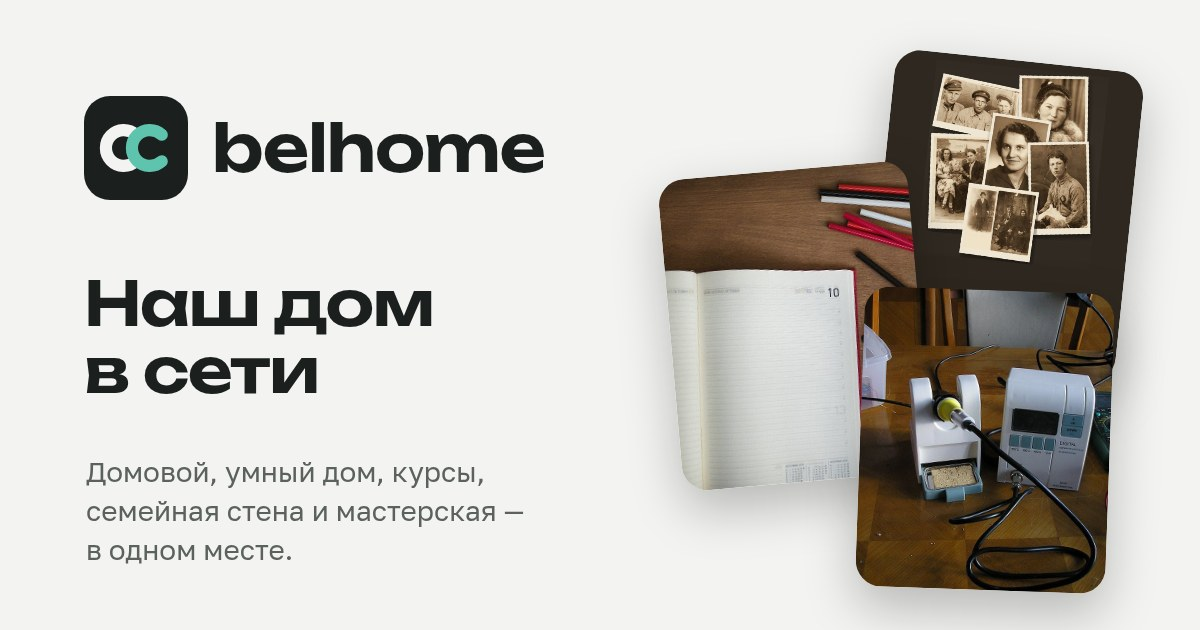
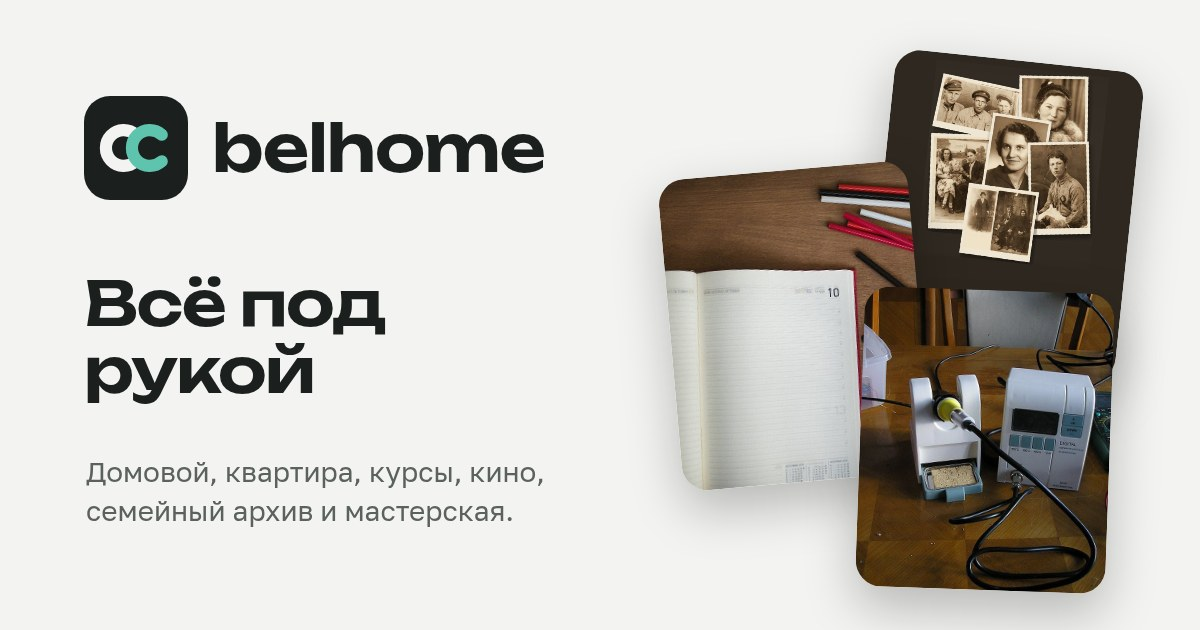
Обновление belhome.cc из ~/infra

Changed region(s): [[0.0617, 0.7238, 0.4625, 0.9048], [0.0617, 0.4222, 0.37, 0.6333]]

diff --git a/index.html b/index.html
@@ -1,4 +1,4 @@
-<!doctype html><html lang="ru"><head><meta charset="utf-8"><meta name="viewport" content="width=device-width,initial-scale=1"><title>belhome.cc — Наш дом в сети</title><meta name="theme-color" content="#F3F4F1"><link rel="icon" href="assets/brand/mark.svg" type="image/svg+xml"><link rel="icon" href="assets/brand/favicon.ico" sizes="48x48"><link rel="apple-touch-icon" href="assets/brand/apple-touch-icon.png"><link rel="manifest" href="site.webmanifest"><meta name="description" content="Домашний сайт: Домовой, умный дом, курсы, семейная стена и мастерская — в одном месте."><meta property="og:type" content="website"><meta property="og:site_name" content="belhome"><meta property="og:title" content="belhome.cc — Наш дом в сети"><meta property="og:description" content="Домашний сайт: Домовой, умный дом, курсы, семейная стена и мастерская — в одном месте."><meta property="og:url" content="https://belhome.cc/"><meta property="og:locale" content="ru_RU"><meta property="og:image" content="https://belhome.cc/assets/brand/og-image.jpg"><meta property="og:image:width" content="1200"><meta property="og:image:height" content="630"><meta name="twitter:card" content="summary_large_image"><meta name="apple-mobile-web-app-title" content="belhome"><link rel="canonical" href="https://belhome.cc/"><link rel="preconnect" href="https://fonts.googleapis.com"><link rel="preconnect" href="https://fonts.gstatic.com" crossorigin><link href="https://fonts.googleapis.com/css2?family=Golos+Text:wght@400;500;600&amp;family=Unbounded:wght@500;600&amp;display=swap" rel="stylesheet"><link rel="stylesheet" href="assets/site.css"></head><body><div class="wrap"><header class="top"><a class="brand" href="./"><svg width="44" height="44" viewBox="0 0 64 64" aria-hidden="true"><rect width="64" height="64" rx="16" fill="#1B1F1D"/><path d="M31.86 23.83 A11 11 0 1 0 31.86 40.17" fill="none" stroke="#F3F4F1" stroke-width="7.5" stroke-linecap="round"/><path d="M47.86 23.83 A11 11 0 1 0 47.86 40.17" fill="none" stroke="#5FC4AE" stroke-width="7.5" stroke-linecap="round"/></svg><span>belhome</span></a><div class="actions"><a class="ghost" href="https://home.belhome.cc">Пульт</a></div></header><section class="hero"><h1>Наш дом в сети</h1><p class="lead">Всё, чем мы пользуемся каждый день, в одном месте.</p><p class="sub">Курсы открыты всем. Остальное — после входа через Google.</p></section><nav class="chips" aria-label="Разделы"><button type="button" class="chip" data-g="all" aria-pressed="true">Все</button><button type="button" class="chip" data-g="home" aria-pressed="false">Дом</button><button type="button" class="chip" data-g="study" aria-pressed="false">Учёба</button><button type="button" class="chip" data-g="family" aria-pressed="false">Семья</button><button type="button" class="chip" data-g="make" aria-pressed="false">Мастерская</button></nav><section class="grid"><a class="tile" href="https://our.belhome.cc" data-group="home"><img src="assets/photos/domovoy.jpg" alt="" loading="lazy"><span class="scrim" aria-hidden="true"></span><span class="pill own">Вход по паролю</span><span class="cap"><span class="n">Домовой</span><span class="d">Домашние вещи, документы и гарантии.</span><span class="u">our.belhome.cc</span></span></a><a class="tile" href="https://ha.belhome.cc" data-group="home"><img src="assets/photos/smarthome.jpg" alt="" loading="lazy"><span class="scrim" aria-hidden="true"></span><span class="pill own">Вход по паролю</span><span class="cap"><span class="n">Умный дом</span><span class="d">Свет, климат, камера и датчики квартиры.</span><span class="u">ha.belhome.cc</span></span></a><a class="tile" href="kursy/" data-group="study"><img src="assets/photos/kursy.jpg" alt="" loading="lazy"><span class="scrim" aria-hidden="true"></span><span class="pill open">Открыто для всех</span><span class="cap"><span class="n">Курсы</span><span class="d">Электрика, английский, кондиционеры, быстрая печать, чтение.</span><span class="c">5 курсов <svg width="14" height="14" viewBox="0 0 24 24" fill="none" stroke="currentColor" stroke-width="2.4" stroke-linecap="round" stroke-linejoin="round" aria-hidden="true"><path d="M9 6l6 6-6 6"></path></svg></span></span></a><a class="tile" href="http://192.168.68.54:32400/web" data-group="home"><img src="assets/photos/kino.jpg" alt="" loading="lazy"><span class="scrim" aria-hidden="true"></span><span class="pill home">Только дома</span><span class="cap"><span class="n">Кино</span><span class="d">Новые фильмы и сериалы на телевизоре.</span><span class="u">Plex на ТВ</span></span></a><a class="tile" href="https://rod.belhome.cc" data-group="family"><img src="assets/photos/tree.jpg" alt="" loading="lazy"><span class="scrim" aria-hidden="true"></span><span class="pill google">Вход через Google</span><span class="cap"><span class="n">Семейная стена</span><span class="d">Родословная, лица и истории семьи.</span><span class="u">rod.belhome.cc</span></span></a><a class="tile" href="https://dna.belhome.cc" data-group="family"><img src="assets/photos/dna.jpg" alt="" loading="lazy"><span class="scrim" aria-hidden="true"></span><span class="pill google">Вход через Google</span><span class="cap"><span class="n">ДНК семьи</span><span class="d">Отчёты по ДНК — каждый видит своё.</span><span class="u">dna.belhome.cc</span></span></a><a class="tile" href="https://workshop.belhome.cc" data-group="make"><img src="assets/photos/workshop.jpg" alt="" loading="lazy"><span class="scrim" aria-hidden="true"></span><span class="pill google">Вход через Google</span><span class="cap"><span class="n">Мастерская</span><span class="d">Лампа-шар, радио HALVMØRKE, склад деталей.</span><span class="u">workshop.belhome.cc</span></span></a><a class="tile" href="https://rm.belhome.cc" data-group="home"><img src="assets/photos/remarkable.jpg" alt="" loading="lazy"><span class="scrim" aria-hidden="true"></span><span class="pill google">Вход через Google</span><span class="cap"><span class="n">Мой reMarkable</span><span class="d">Библиотека планшета, выделения по цветам, закачка книг.</span><span class="u">rm.belhome.cc</span></span></a><div class="empty"><svg width="28" height="28" viewBox="0 0 24 24" fill="none" stroke="currentColor" stroke-width="1.8" stroke-linecap="round" aria-hidden="true"><path d="M12 5v14M5 12h14"></path></svg><span>Место для следующего проекта</span></div></section><footer><div class="row"><span>belhome.cc · дом в Варшаве</span><span>Нет доступа к плитке — напишите Сержу</span></div><small>Фото: Wikimedia Commons — Shixart1985 (CC BY 2.0), reynermedia (CC BY 2.0), PtiGaby (CC BY-SA 4.0), Guido Alvarez (CC BY 2.0), Sumitsurai (CC BY-SA 4.0), Retired electrician (CC0), Simon Hattinga Verschure (CC0), U.S. Air Force / Justin Norton (public domain), Steven Lek (CC BY-SA 4.0). Коллаж — семейный архив.</small></footer></div><script>
+<!doctype html><html lang="ru"><head><meta charset="utf-8"><meta name="viewport" content="width=device-width,initial-scale=1"><title>belhome.cc — Всё под рукой</title><meta name="theme-color" content="#F3F4F1"><link rel="icon" href="assets/brand/mark.svg" type="image/svg+xml"><link rel="icon" href="assets/brand/favicon.ico" sizes="48x48"><link rel="apple-touch-icon" href="assets/brand/apple-touch-icon.png"><link rel="manifest" href="site.webmanifest"><meta name="description" content="Сайт семьи: Домовой, квартира, курсы, кино, семейный архив и мастерская — в одном месте."><meta property="og:type" content="website"><meta property="og:site_name" content="belhome"><meta property="og:title" content="belhome.cc — Всё под рукой"><meta property="og:description" content="Сайт семьи: Домовой, квартира, курсы, кино, семейный архив и мастерская — в одном месте."><meta property="og:url" content="https://belhome.cc/"><meta property="og:locale" content="ru_RU"><meta property="og:image" content="https://belhome.cc/assets/brand/og-image.jpg"><meta property="og:image:width" content="1200"><meta property="og:image:height" content="630"><meta name="twitter:card" content="summary_large_image"><meta name="apple-mobile-web-app-title" content="belhome"><link rel="canonical" href="https://belhome.cc/"><link rel="preconnect" href="https://fonts.googleapis.com"><link rel="preconnect" href="https://fonts.gstatic.com" crossorigin><link href="https://fonts.googleapis.com/css2?family=Golos+Text:wght@400;500;600&amp;family=Unbounded:wght@500;600&amp;display=swap" rel="stylesheet"><link rel="stylesheet" href="assets/site.css"></head><body><div class="wrap"><header class="top"><a class="brand" href="./"><svg width="44" height="44" viewBox="0 0 64 64" aria-hidden="true"><rect width="64" height="64" rx="16" fill="#1B1F1D"/><path d="M31.86 23.83 A11 11 0 1 0 31.86 40.17" fill="none" stroke="#F3F4F1" stroke-width="7.5" stroke-linecap="round"/><path d="M47.86 23.83 A11 11 0 1 0 47.86 40.17" fill="none" stroke="#5FC4AE" stroke-width="7.5" stroke-linecap="round"/></svg><span>belhome</span></a><div class="actions"><a class="ghost" href="https://home.belhome.cc">Пульт</a></div></header><section class="hero"><h1>Всё под рукой</h1><p class="lead">То, чем семья пользуется каждый день.</p><p class="sub">Курсы открыты всем. Остальное — после входа через Google.</p></section><nav class="chips" aria-label="Разделы"><button type="button" class="chip" data-g="all" aria-pressed="true">Все</button><button type="button" class="chip" data-g="home" aria-pressed="false">Быт</button><button type="button" class="chip" data-g="study" aria-pressed="false">Учёба</button><button type="button" class="chip" data-g="family" aria-pressed="false">Семья</button><button type="button" class="chip" data-g="make" aria-pressed="false">Мастерская</button></nav><section class="grid"><a class="tile" href="https://our.belhome.cc" data-group="home"><img src="assets/photos/domovoy.jpg" alt="" loading="lazy"><span class="scrim" aria-hidden="true"></span><span class="pill own">Вход по паролю</span><span class="cap"><span class="n">Домовой</span><span class="d">Вещи, документы, чеки и гарантии.</span><span class="u">our.belhome.cc</span></span></a><a class="tile" href="https://ha.belhome.cc" data-group="home"><img src="assets/photos/smarthome.jpg" alt="" loading="lazy"><span class="scrim" aria-hidden="true"></span><span class="pill own">Вход по паролю</span><span class="cap"><span class="n">Квартира</span><span class="d">Свет, климат, камера и датчики.</span><span class="u">ha.belhome.cc</span></span></a><a class="tile" href="kursy/" data-group="study"><img src="assets/photos/kursy.jpg" alt="" loading="lazy"><span class="scrim" aria-hidden="true"></span><span class="pill open">Открыто для всех</span><span class="cap"><span class="n">Курсы</span><span class="d">Электрика, английский, печать, чтение.</span><span class="c">5 курсов <svg width="14" height="14" viewBox="0 0 24 24" fill="none" stroke="currentColor" stroke-width="2.4" stroke-linecap="round" stroke-linejoin="round" aria-hidden="true"><path d="M9 6l6 6-6 6"></path></svg></span></span></a><a class="tile" href="http://192.168.68.54:32400/web" data-group="home"><img src="assets/photos/kino.jpg" alt="" loading="lazy"><span class="scrim" aria-hidden="true"></span><span class="pill home">Только дома</span><span class="cap"><span class="n">Кино</span><span class="d">Новые фильмы и сериалы на телевизоре.</span><span class="u">Plex на ТВ</span></span></a><a class="tile" href="https://rod.belhome.cc" data-group="family"><img src="assets/photos/tree.jpg" alt="" loading="lazy"><span class="scrim" aria-hidden="true"></span><span class="pill google">Вход через Google</span><span class="cap"><span class="n">Семья</span><span class="d">Родословная, лица и семейные истории.</span><span class="u">rod.belhome.cc</span></span></a><a class="tile" href="https://dna.belhome.cc" data-group="family"><img src="assets/photos/dna.jpg" alt="" loading="lazy"><span class="scrim" aria-hidden="true"></span><span class="pill google">Вход через Google</span><span class="cap"><span class="n">ДНК</span><span class="d">Отчёты по ДНК — каждый видит только своё.</span><span class="u">dna.belhome.cc</span></span></a><a class="tile" href="https://workshop.belhome.cc" data-group="make"><img src="assets/photos/workshop.jpg" alt="" loading="lazy"><span class="scrim" aria-hidden="true"></span><span class="pill google">Вход через Google</span><span class="cap"><span class="n">Мастерская</span><span class="d">Лампа-шар, радио HALVMØRKE, склад.</span><span class="u">workshop.belhome.cc</span></span></a><a class="tile" href="https://rm.belhome.cc" data-group="home"><img src="assets/photos/remarkable.jpg" alt="" loading="lazy"><span class="scrim" aria-hidden="true"></span><span class="pill google">Вход через Google</span><span class="cap"><span class="n">Планшет</span><span class="d">reMarkable: книги и выделения по цветам.</span><span class="u">rm.belhome.cc</span></span></a></section><footer><div class="row"><span>belhome.cc · Варшава</span><span>Нет доступа к плитке — напишите Сержу</span></div><small>Фото: Wikimedia Commons — Shixart1985 (CC BY 2.0), reynermedia (CC BY 2.0), PtiGaby (CC BY-SA 4.0), Guido Alvarez (CC BY 2.0), Sumitsurai (CC BY-SA 4.0), Retired electrician (CC0), Simon Hattinga Verschure (CC0), U.S. Air Force / Justin Norton (public domain), Steven Lek (CC BY-SA 4.0). Коллаж — семейный архив.</small></footer></div><script>
 (function(){var c=document.querySelectorAll('.chip'),t=document.querySelectorAll('.grid .tile');
 c.forEach(function(b){b.addEventListener('click',function(){var g=b.dataset.g;
 c.forEach(function(x){x.setAttribute('aria-pressed',x===b?'true':'false')});

diff --git a/kursy/index.html b/kursy/index.html
@@ -1,1 +1,1 @@
-<!doctype html><html lang="ru"><head><meta charset="utf-8"><meta name="viewport" content="width=device-width,initial-scale=1"><title>Курсы — belhome.cc</title><meta name="theme-color" content="#F3F4F1"><link rel="icon" href="../assets/brand/mark.svg" type="image/svg+xml"><link rel="icon" href="../assets/brand/favicon.ico" sizes="48x48"><link rel="apple-touch-icon" href="../assets/brand/apple-touch-icon.png"><link rel="manifest" href="../site.webmanifest"><meta name="description" content="Домашний сайт: Домовой, умный дом, курсы, семейная стена и мастерская — в одном месте."><meta property="og:type" content="website"><meta property="og:site_name" content="belhome"><meta property="og:title" content="Курсы — belhome.cc"><meta property="og:description" content="Домашний сайт: Домовой, умный дом, курсы, семейная стена и мастерская — в одном месте."><meta property="og:url" content="https://belhome.cc/kursy/"><meta property="og:locale" content="ru_RU"><meta property="og:image" content="https://belhome.cc/assets/brand/og-image.jpg"><meta property="og:image:width" content="1200"><meta property="og:image:height" content="630"><meta name="twitter:card" content="summary_large_image"><meta name="apple-mobile-web-app-title" content="belhome"><link rel="canonical" href="https://belhome.cc/kursy/"><link rel="preconnect" href="https://fonts.googleapis.com"><link rel="preconnect" href="https://fonts.gstatic.com" crossorigin><link href="https://fonts.googleapis.com/css2?family=Golos+Text:wght@400;500;600&amp;family=Unbounded:wght@500;600&amp;display=swap" rel="stylesheet"><link rel="stylesheet" href="../assets/site.css"></head><body><div class="wrap"><header class="top"><a class="brand" href="../"><svg width="44" height="44" viewBox="0 0 64 64" aria-hidden="true"><rect width="64" height="64" rx="16" fill="#1B1F1D"/><path d="M31.86 23.83 A11 11 0 1 0 31.86 40.17" fill="none" stroke="#F3F4F1" stroke-width="7.5" stroke-linecap="round"/><path d="M47.86 23.83 A11 11 0 1 0 47.86 40.17" fill="none" stroke="#5FC4AE" stroke-width="7.5" stroke-linecap="round"/></svg><span>belhome</span></a><div class="actions"><a class="ghost" href="https://home.belhome.cc">Пульт</a></div></header><section class="hero"><a class="back" href="../"><svg width="18" height="18" viewBox="0 0 24 24" fill="none" stroke="currentColor" stroke-width="2" stroke-linecap="round" stroke-linejoin="round" aria-hidden="true"><path d="M15 18l-6-6 6-6"></path></svg> Все проекты</a><h1>Курсы</h1><p class="lead">Открыты всем, без входа.</p></section><section class="grid"><a class="tile" href="https://kurs.belhome.cc"><img src="../assets/photos/electric.jpg" alt="" loading="lazy"><span class="scrim" aria-hidden="true"></span><span class="pill open">Открыто для всех</span><span class="cap"><span class="n">Электрика</span><span class="d">Курс электрика на польском.</span><span class="u">kurs.belhome.cc</span></span></a><a class="tile" href="https://eng.belhome.cc"><img src="../assets/photos/english.jpg" alt="" loading="lazy"><span class="scrim" aria-hidden="true"></span><span class="pill open">Открыто для всех</span><span class="cap"><span class="n">Английский</span><span class="d">Курс английского языка.</span><span class="u">eng.belhome.cc</span></span></a><a class="tile" href="https://klima.belhome.cc"><img src="../assets/photos/aircon.jpg" alt="" loading="lazy"><span class="scrim" aria-hidden="true"></span><span class="pill open">Открыто для всех</span><span class="cap"><span class="n">Кондиционеры</span><span class="d">Установка и обслуживание кондиционеров.</span><span class="u">klima.belhome.cc</span></span></a><a class="tile" href="https://klava.belhome.cc"><img src="../assets/photos/typing.jpg" alt="" loading="lazy"><span class="scrim" aria-hidden="true"></span><span class="pill open">Открыто для всех</span><span class="cap"><span class="n">Быстрая печать</span><span class="d">Слепая печать десятью пальцами.</span><span class="u">klava.belhome.cc</span></span></a><a class="tile" href="https://dzik.belhome.cc"><img src="../assets/photos/dzik.jpg" alt="" loading="lazy"><span class="scrim" aria-hidden="true"></span><span class="pill open">Открыто для всех</span><span class="cap"><span class="n">Dzik czyta</span><span class="d">Uważne czytanie po polsku z dzikiem Bączkiem.</span><span class="u">dzik.belhome.cc</span></span></a><div class="empty"><svg width="28" height="28" viewBox="0 0 24 24" fill="none" stroke="currentColor" stroke-width="1.8" stroke-linecap="round" aria-hidden="true"><path d="M12 5v14M5 12h14"></path></svg><span>Место для следующего курса</span></div></section><footer><div class="row"><span>belhome.cc · дом в Варшаве</span><span>Нет доступа к плитке — напишите Сержу</span></div><small>Фото: Wikimedia Commons — Shixart1985 (CC BY 2.0), reynermedia (CC BY 2.0), PtiGaby (CC BY-SA 4.0), Guido Alvarez (CC BY 2.0), Sumitsurai (CC BY-SA 4.0), Retired electrician (CC0), Simon Hattinga Verschure (CC0), U.S. Air Force / Justin Norton (public domain), Steven Lek (CC BY-SA 4.0). Коллаж — семейный архив.</small></footer></div></body></html>
+<!doctype html><html lang="ru"><head><meta charset="utf-8"><meta name="viewport" content="width=device-width,initial-scale=1"><title>Курсы — belhome.cc</title><meta name="theme-color" content="#F3F4F1"><link rel="icon" href="../assets/brand/mark.svg" type="image/svg+xml"><link rel="icon" href="../assets/brand/favicon.ico" sizes="48x48"><link rel="apple-touch-icon" href="../assets/brand/apple-touch-icon.png"><link rel="manifest" href="../site.webmanifest"><meta name="description" content="Сайт семьи: Домовой, квартира, курсы, кино, семейный архив и мастерская — в одном месте."><meta property="og:type" content="website"><meta property="og:site_name" content="belhome"><meta property="og:title" content="Курсы — belhome.cc"><meta property="og:description" content="Сайт семьи: Домовой, квартира, курсы, кино, семейный архив и мастерская — в одном месте."><meta property="og:url" content="https://belhome.cc/kursy/"><meta property="og:locale" content="ru_RU"><meta property="og:image" content="https://belhome.cc/assets/brand/og-image.jpg"><meta property="og:image:width" content="1200"><meta property="og:image:height" content="630"><meta name="twitter:card" content="summary_large_image"><meta name="apple-mobile-web-app-title" content="belhome"><link rel="canonical" href="https://belhome.cc/kursy/"><link rel="preconnect" href="https://fonts.googleapis.com"><link rel="preconnect" href="https://fonts.gstatic.com" crossorigin><link href="https://fonts.googleapis.com/css2?family=Golos+Text:wght@400;500;600&amp;family=Unbounded:wght@500;600&amp;display=swap" rel="stylesheet"><link rel="stylesheet" href="../assets/site.css"></head><body><div class="wrap"><header class="top"><a class="brand" href="../"><svg width="44" height="44" viewBox="0 0 64 64" aria-hidden="true"><rect width="64" height="64" rx="16" fill="#1B1F1D"/><path d="M31.86 23.83 A11 11 0 1 0 31.86 40.17" fill="none" stroke="#F3F4F1" stroke-width="7.5" stroke-linecap="round"/><path d="M47.86 23.83 A11 11 0 1 0 47.86 40.17" fill="none" stroke="#5FC4AE" stroke-width="7.5" stroke-linecap="round"/></svg><span>belhome</span></a><div class="actions"><a class="ghost" href="https://home.belhome.cc">Пульт</a></div></header><section class="hero"><a class="back" href="../"><svg width="18" height="18" viewBox="0 0 24 24" fill="none" stroke="currentColor" stroke-width="2" stroke-linecap="round" stroke-linejoin="round" aria-hidden="true"><path d="M15 18l-6-6 6-6"></path></svg> Все проекты</a><h1>Курсы</h1><p class="lead">Открыты всем, без входа.</p></section><section class="grid"><a class="tile" href="https://kurs.belhome.cc"><img src="../assets/photos/electric.jpg" alt="" loading="lazy"><span class="scrim" aria-hidden="true"></span><span class="pill open">Открыто для всех</span><span class="cap"><span class="n">Электрика</span><span class="d">Курс электрика на польском.</span><span class="u">kurs.belhome.cc</span></span></a><a class="tile" href="https://eng.belhome.cc"><img src="../assets/photos/english.jpg" alt="" loading="lazy"><span class="scrim" aria-hidden="true"></span><span class="pill open">Открыто для всех</span><span class="cap"><span class="n">Английский</span><span class="d">Курс английского языка.</span><span class="u">eng.belhome.cc</span></span></a><a class="tile" href="https://klima.belhome.cc"><img src="../assets/photos/aircon.jpg" alt="" loading="lazy"><span class="scrim" aria-hidden="true"></span><span class="pill open">Открыто для всех</span><span class="cap"><span class="n">Кондиционеры</span><span class="d">Установка и обслуживание кондиционеров.</span><span class="u">klima.belhome.cc</span></span></a><a class="tile" href="https://klava.belhome.cc"><img src="../assets/photos/typing.jpg" alt="" loading="lazy"><span class="scrim" aria-hidden="true"></span><span class="pill open">Открыто для всех</span><span class="cap"><span class="n">Быстрая печать</span><span class="d">Слепая печать десятью пальцами.</span><span class="u">klava.belhome.cc</span></span></a><a class="tile" href="https://dzik.belhome.cc"><img src="../assets/photos/dzik.jpg" alt="" loading="lazy"><span class="scrim" aria-hidden="true"></span><span class="pill open">Открыто для всех</span><span class="cap"><span class="n">Dzik czyta</span><span class="d">Uważne czytanie po polsku z dzikiem Bączkiem.</span><span class="u">dzik.belhome.cc</span></span></a><div class="empty"><svg width="28" height="28" viewBox="0 0 24 24" fill="none" stroke="currentColor" stroke-width="1.8" stroke-linecap="round" aria-hidden="true"><path d="M12 5v14M5 12h14"></path></svg><span>Место для следующего курса</span></div></section><footer><div class="row"><span>belhome.cc · Варшава</span><span>Нет доступа к плитке — напишите Сержу</span></div><small>Фото: Wikimedia Commons — Shixart1985 (CC BY 2.0), reynermedia (CC BY 2.0), PtiGaby (CC BY-SA 4.0), Guido Alvarez (CC BY 2.0), Sumitsurai (CC BY-SA 4.0), Retired electrician (CC0), Simon Hattinga Verschure (CC0), U.S. Air Force / Justin Norton (public domain), Steven Lek (CC BY-SA 4.0). Коллаж — семейный архив.</small></footer></div></body></html>

diff --git a/privacy/index.html b/privacy/index.html
@@ -1,1 +1,1 @@
-<!doctype html><html lang="ru"><head><meta charset="utf-8"><meta name="viewport" content="width=device-width,initial-scale=1"><title>Конфиденциальность — belhome.cc</title><meta name="theme-color" content="#F3F4F1"><link rel="icon" href="../assets/brand/mark.svg" type="image/svg+xml"><link rel="icon" href="../assets/brand/favicon.ico" sizes="48x48"><link rel="apple-touch-icon" href="../assets/brand/apple-touch-icon.png"><link rel="manifest" href="../site.webmanifest"><meta name="description" content="Домашний сайт: Домовой, умный дом, курсы, семейная стена и мастерская — в одном месте."><meta property="og:type" content="website"><meta property="og:site_name" content="belhome"><meta property="og:title" content="Конфиденциальность — belhome.cc"><meta property="og:description" content="Домашний сайт: Домовой, умный дом, курсы, семейная стена и мастерская — в одном месте."><meta property="og:url" content="https://belhome.cc/privacy/"><meta property="og:locale" content="ru_RU"><meta property="og:image" content="https://belhome.cc/assets/brand/og-image.jpg"><meta property="og:image:width" content="1200"><meta property="og:image:height" content="630"><meta name="twitter:card" content="summary_large_image"><meta name="apple-mobile-web-app-title" content="belhome"><link rel="canonical" href="https://belhome.cc/privacy/"><link rel="preconnect" href="https://fonts.googleapis.com"><link rel="preconnect" href="https://fonts.gstatic.com" crossorigin><link href="https://fonts.googleapis.com/css2?family=Golos+Text:wght@400;500;600&amp;family=Unbounded:wght@500;600&amp;display=swap" rel="stylesheet"><link rel="stylesheet" href="../assets/site.css"></head><body><div class="wrap"><header class="top"><a class="brand" href="../"><svg width="44" height="44" viewBox="0 0 64 64" aria-hidden="true"><rect width="64" height="64" rx="16" fill="#1B1F1D"/><path d="M31.86 23.83 A11 11 0 1 0 31.86 40.17" fill="none" stroke="#F3F4F1" stroke-width="7.5" stroke-linecap="round"/><path d="M47.86 23.83 A11 11 0 1 0 47.86 40.17" fill="none" stroke="#5FC4AE" stroke-width="7.5" stroke-linecap="round"/></svg><span>belhome</span></a><div class="actions"><a class="ghost" href="https://home.belhome.cc">Пульт</a></div></header><section class="hero"><a class="back" href="../"><svg width="18" height="18" viewBox="0 0 24 24" fill="none" stroke="currentColor" stroke-width="2" stroke-linecap="round" stroke-linejoin="round" aria-hidden="true"><path d="M15 18l-6-6 6-6"></path></svg> На главную</a><h1>Конфиденциальность</h1><p class="lead" style="font-size:17px">belhome.cc — домашний сайт семьи Панфиловых. Курсы открыты всем без входа. Остальные разделы открываются только людям, которых владелец сайта внёс в список, и только после входа через Google.</p><p class="lead" style="font-size:17px">При входе через Google сайт получает только ваше имя и адрес электронной почты. Больше ничего: ни контактов, ни файлов, ни календаря.</p><p class="lead" style="font-size:17px">Вход проверяет сервис Cloudflare Access: он сравнивает ваш адрес со списком и пускает или не пускает. Cloudflare хранит запись о входе (адрес, время, раздел) в журнале, который видит только владелец сайта.</p><p class="lead" style="font-size:17px">Мы не продаём и не передаём эти данные, не используем их для рекламы и не ставим счётчиков посещений.</p><p class="lead" style="font-size:17px">Чтобы вас убрали из списка и больше не хранили ваш адрес, напишите владельцу: sergiusz.panfilow@gmail.com.</p><p class="sub" lang="en">belhome.cc is a private family website. Google sign-in is used only to check your name and email address against the owner&#x27;s access list (via Cloudflare Access). Nothing else is requested, sold or shared. To be removed, write to sergiusz.panfilow@gmail.com.</p><p class="sub">Обновлено 06.11.2026</p></section><footer><div class="row"><span>belhome.cc · дом в Варшаве</span><span>Нет доступа к плитке — напишите Сержу</span></div><small>Фото: Wikimedia Commons — Shixart1985 (CC BY 2.0), reynermedia (CC BY 2.0), PtiGaby (CC BY-SA 4.0), Guido Alvarez (CC BY 2.0), Sumitsurai (CC BY-SA 4.0), Retired electrician (CC0), Simon Hattinga Verschure (CC0), U.S. Air Force / Justin Norton (public domain), Steven Lek (CC BY-SA 4.0). Коллаж — семейный архив.</small></footer></div></body></html>
+<!doctype html><html lang="ru"><head><meta charset="utf-8"><meta name="viewport" content="width=device-width,initial-scale=1"><title>Конфиденциальность — belhome.cc</title><meta name="theme-color" content="#F3F4F1"><link rel="icon" href="../assets/brand/mark.svg" type="image/svg+xml"><link rel="icon" href="../assets/brand/favicon.ico" sizes="48x48"><link rel="apple-touch-icon" href="../assets/brand/apple-touch-icon.png"><link rel="manifest" href="../site.webmanifest"><meta name="description" content="Сайт семьи: Домовой, квартира, курсы, кино, семейный архив и мастерская — в одном месте."><meta property="og:type" content="website"><meta property="og:site_name" content="belhome"><meta property="og:title" content="Конфиденциальность — belhome.cc"><meta property="og:description" content="Сайт семьи: Домовой, квартира, курсы, кино, семейный архив и мастерская — в одном месте."><meta property="og:url" content="https://belhome.cc/privacy/"><meta property="og:locale" content="ru_RU"><meta property="og:image" content="https://belhome.cc/assets/brand/og-image.jpg"><meta property="og:image:width" content="1200"><meta property="og:image:height" content="630"><meta name="twitter:card" content="summary_large_image"><meta name="apple-mobile-web-app-title" content="belhome"><link rel="canonical" href="https://belhome.cc/privacy/"><link rel="preconnect" href="https://fonts.googleapis.com"><link rel="preconnect" href="https://fonts.gstatic.com" crossorigin><link href="https://fonts.googleapis.com/css2?family=Golos+Text:wght@400;500;600&amp;family=Unbounded:wght@500;600&amp;display=swap" rel="stylesheet"><link rel="stylesheet" href="../assets/site.css"></head><body><div class="wrap"><header class="top"><a class="brand" href="../"><svg width="44" height="44" viewBox="0 0 64 64" aria-hidden="true"><rect width="64" height="64" rx="16" fill="#1B1F1D"/><path d="M31.86 23.83 A11 11 0 1 0 31.86 40.17" fill="none" stroke="#F3F4F1" stroke-width="7.5" stroke-linecap="round"/><path d="M47.86 23.83 A11 11 0 1 0 47.86 40.17" fill="none" stroke="#5FC4AE" stroke-width="7.5" stroke-linecap="round"/></svg><span>belhome</span></a><div class="actions"><a class="ghost" href="https://home.belhome.cc">Пульт</a></div></header><section class="hero"><a class="back" href="../"><svg width="18" height="18" viewBox="0 0 24 24" fill="none" stroke="currentColor" stroke-width="2" stroke-linecap="round" stroke-linejoin="round" aria-hidden="true"><path d="M15 18l-6-6 6-6"></path></svg> На главную</a><h1>Конфиденциальность</h1><p class="lead" style="font-size:17px">belhome.cc — домашний сайт семьи Панфиловых. Курсы открыты всем без входа. Остальные разделы открываются только людям, которых владелец сайта внёс в список, и только после входа через Google.</p><p class="lead" style="font-size:17px">При входе через Google сайт получает только ваше имя и адрес электронной почты. Больше ничего: ни контактов, ни файлов, ни календаря.</p><p class="lead" style="font-size:17px">Вход проверяет сервис Cloudflare Access: он сравнивает ваш адрес со списком и пускает или не пускает. Cloudflare хранит запись о входе (адрес, время, раздел) в журнале, который видит только владелец сайта.</p><p class="lead" style="font-size:17px">Мы не продаём и не передаём эти данные, не используем их для рекламы и не ставим счётчиков посещений.</p><p class="lead" style="font-size:17px">Чтобы вас убрали из списка и больше не хранили ваш адрес, напишите владельцу: sergiusz.panfilow@gmail.com.</p><p class="sub" lang="en">belhome.cc is a private family website. Google sign-in is used only to check your name and email address against the owner&#x27;s access list (via Cloudflare Access). Nothing else is requested, sold or shared. To be removed, write to sergiusz.panfilow@gmail.com.</p><p class="sub">Обновлено 06.11.2026</p></section><footer><div class="row"><span>belhome.cc · Варшава</span><span>Нет доступа к плитке — напишите Сержу</span></div><small>Фото: Wikimedia Commons — Shixart1985 (CC BY 2.0), reynermedia (CC BY 2.0), PtiGaby (CC BY-SA 4.0), Guido Alvarez (CC BY 2.0), Sumitsurai (CC BY-SA 4.0), Retired electrician (CC0), Simon Hattinga Verschure (CC0), U.S. Air Force / Justin Norton (public domain), Steven Lek (CC BY-SA 4.0). Коллаж — семейный архив.</small></footer></div></body></html>

diff --git a/assets/site.css b/assets/site.css
@@ -25,7 +25,7 @@ h1{margin:0 0 4px;font:600 clamp(32px,5vw,52px)/1.08 Unbounded,sans-serif;letter
 .tile:hover{transform:translateY(-3px);box-shadow:0 2px 4px rgba(27,31,29,.08),0 20px 44px rgba(27,31,29,.16);color:#fff}
 .tile:focus-visible{outline:3px solid #0F6E68;outline-offset:3px}
 .tile img{position:absolute;inset:0;width:100%;height:100%;object-fit:cover}
-.tile .scrim{position:absolute;inset:0;background:linear-gradient(180deg,rgba(10,12,11,0) 38%,rgba(10,12,11,.82) 100%)}
+.tile .scrim{position:absolute;inset:0;background:linear-gradient(180deg,rgba(10,12,11,0) 34%,rgba(10,12,11,.55) 62%,rgba(10,12,11,.9) 100%)}
 .pill{position:absolute;top:18px;left:18px;font-size:12px;font-weight:600;padding:7px 11px;border-radius:999px;white-space:nowrap}
 .pill.open{background:#fff;color:#0B5A55}
 .pill.google{background:rgba(20,22,21,.72);color:#fff;border:1px solid rgba(255,255,255,.28)}
@@ -33,10 +33,10 @@ h1{margin:0 0 4px;font:600 clamp(32px,5vw,52px)/1.08 Unbounded,sans-serif;letter
 .pill.home{background:#F6EAD9;color:#7A3E06}
 .pill.soon{background:#F2EADB;color:#4A3F2E}
 .cap{position:absolute;left:22px;right:22px;bottom:22px;display:flex;flex-direction:column;gap:6px}
-.cap .n{font:500 24px Unbounded,sans-serif;letter-spacing:-.01em}
-.cap .d{font-size:15px;line-height:1.4;color:rgba(255,255,255,.88)}
-.cap .u{font-size:13px;color:rgba(255,255,255,.72);margin-top:2px}
-.cap .c{align-self:flex-start;margin-top:8px;display:inline-flex;align-items:center;gap:6px;padding:7px 12px;border-radius:999px;background:rgba(255,255,255,.16);border:1px solid rgba(255,255,255,.35);font-size:13px;font-weight:500}
+.cap .n{font:500 24px/1.2 Unbounded,sans-serif;letter-spacing:-.01em;white-space:nowrap;overflow:hidden;text-overflow:ellipsis}
+.cap .d{font-size:15px;line-height:1.4;height:2.8em;overflow:hidden;display:-webkit-box;-webkit-line-clamp:2;-webkit-box-orient:vertical;color:rgba(255,255,255,.88)}
+.cap .u{font-size:13px;line-height:30px;height:30px;color:rgba(255,255,255,.72);white-space:nowrap;overflow:hidden;text-overflow:ellipsis}
+.cap .c{align-self:flex-start;height:30px;box-sizing:border-box;display:inline-flex;align-items:center;gap:6px;padding:7px 12px;border-radius:999px;background:rgba(255,255,255,.16);border:1px solid rgba(255,255,255,.35);font-size:13px;font-weight:500}
 .empty{aspect-ratio:4/5;border-radius:24px;border:1.5px dashed #C2C7BF;display:flex;flex-direction:column;align-items:center;justify-content:center;gap:10px;padding:24px;text-align:center;color:#5B625E;font-size:15px;line-height:1.45}
 .tile[hidden],.empty[hidden]{display:none}
 footer{display:flex;flex-direction:column;gap:8px;padding-top:24px;border-top:1px solid #DDE0DA;color:#5B625E;font-size:14px}
